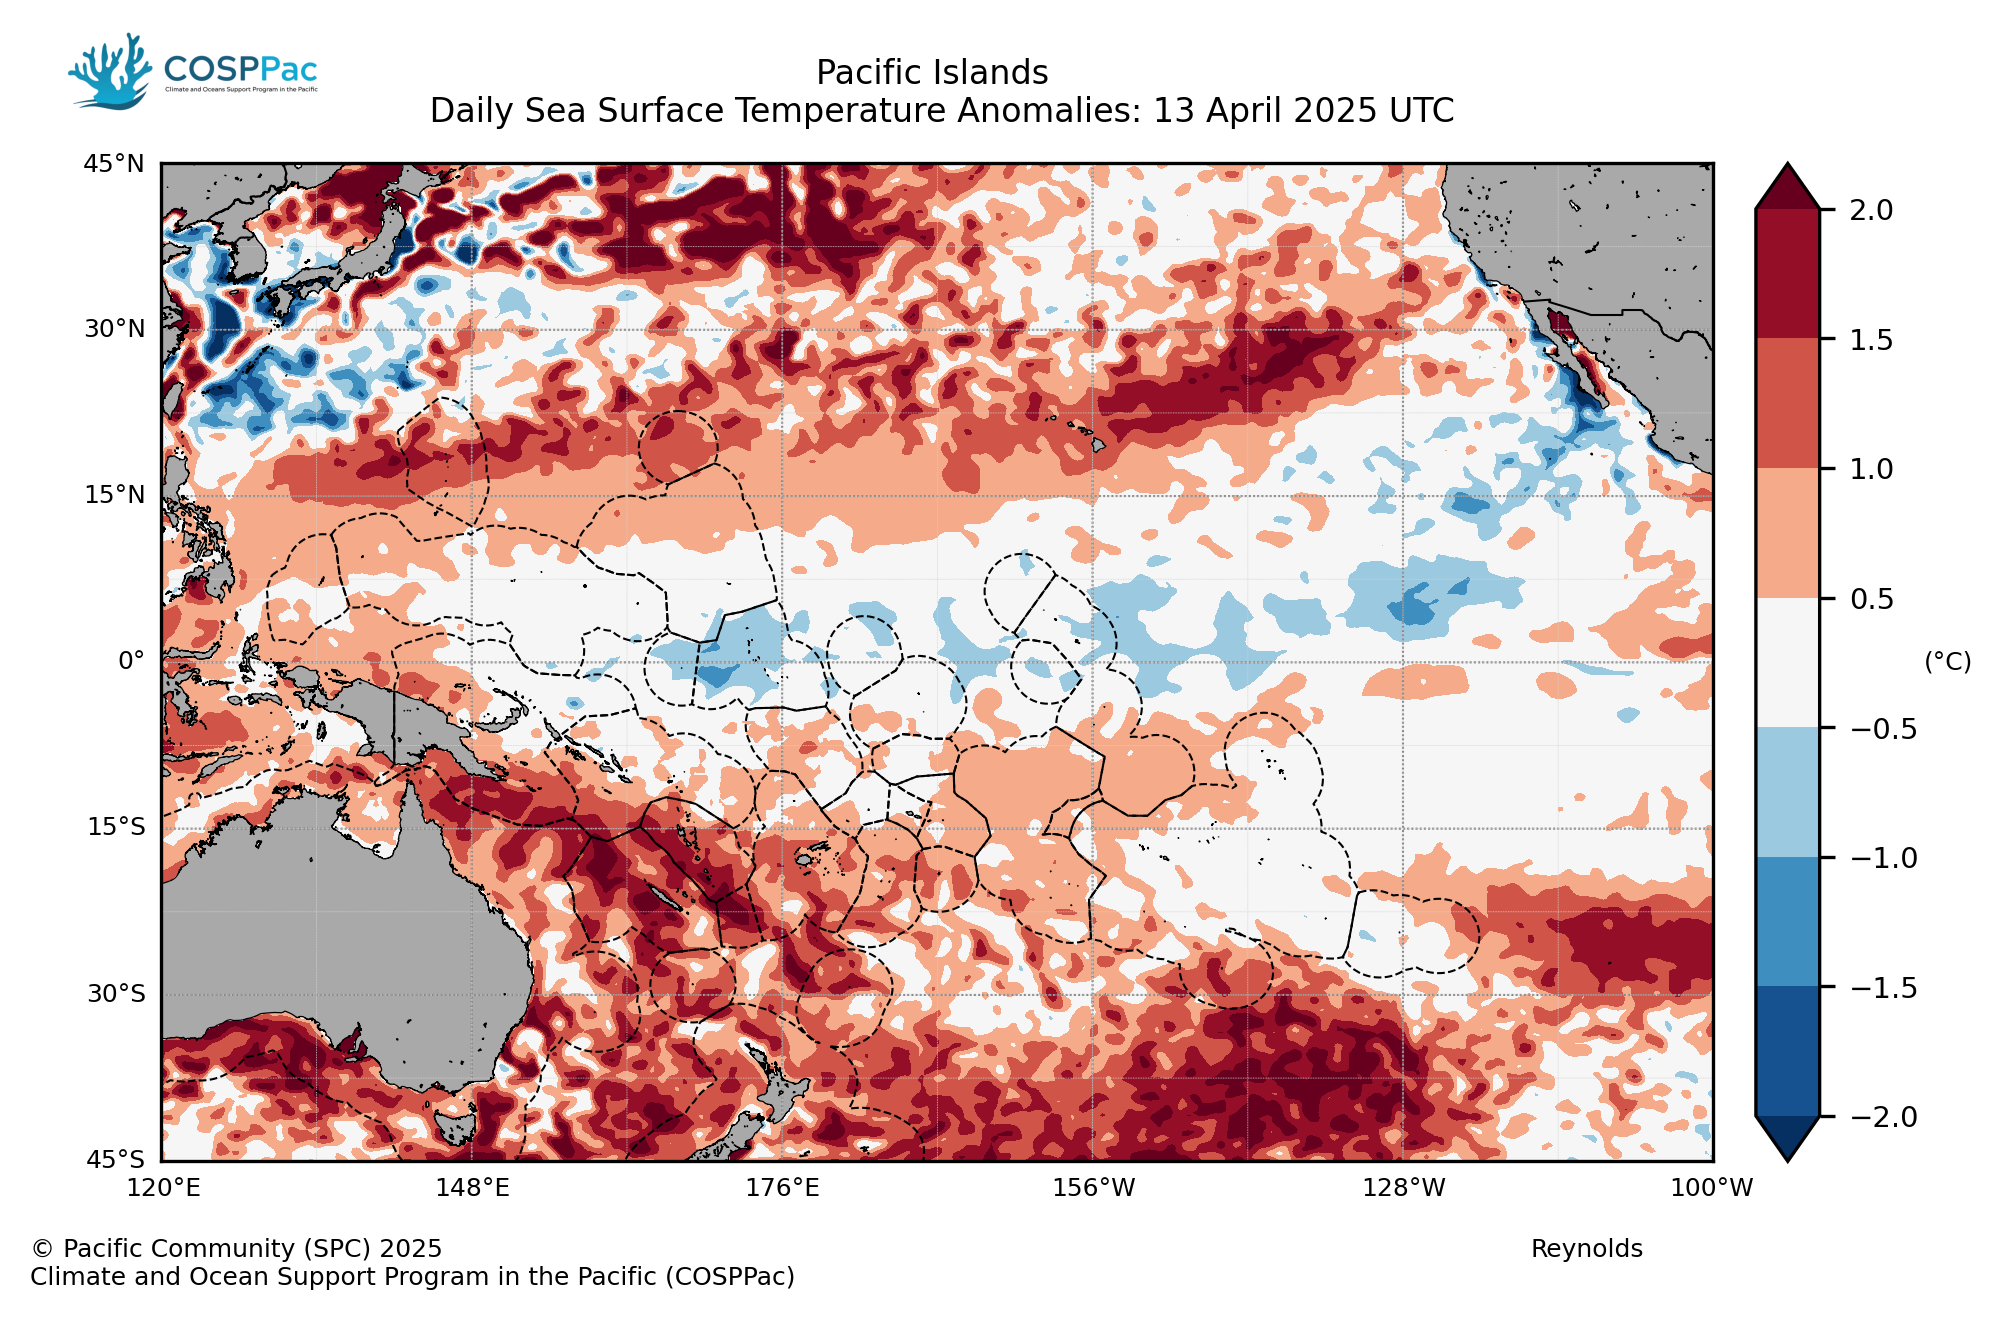
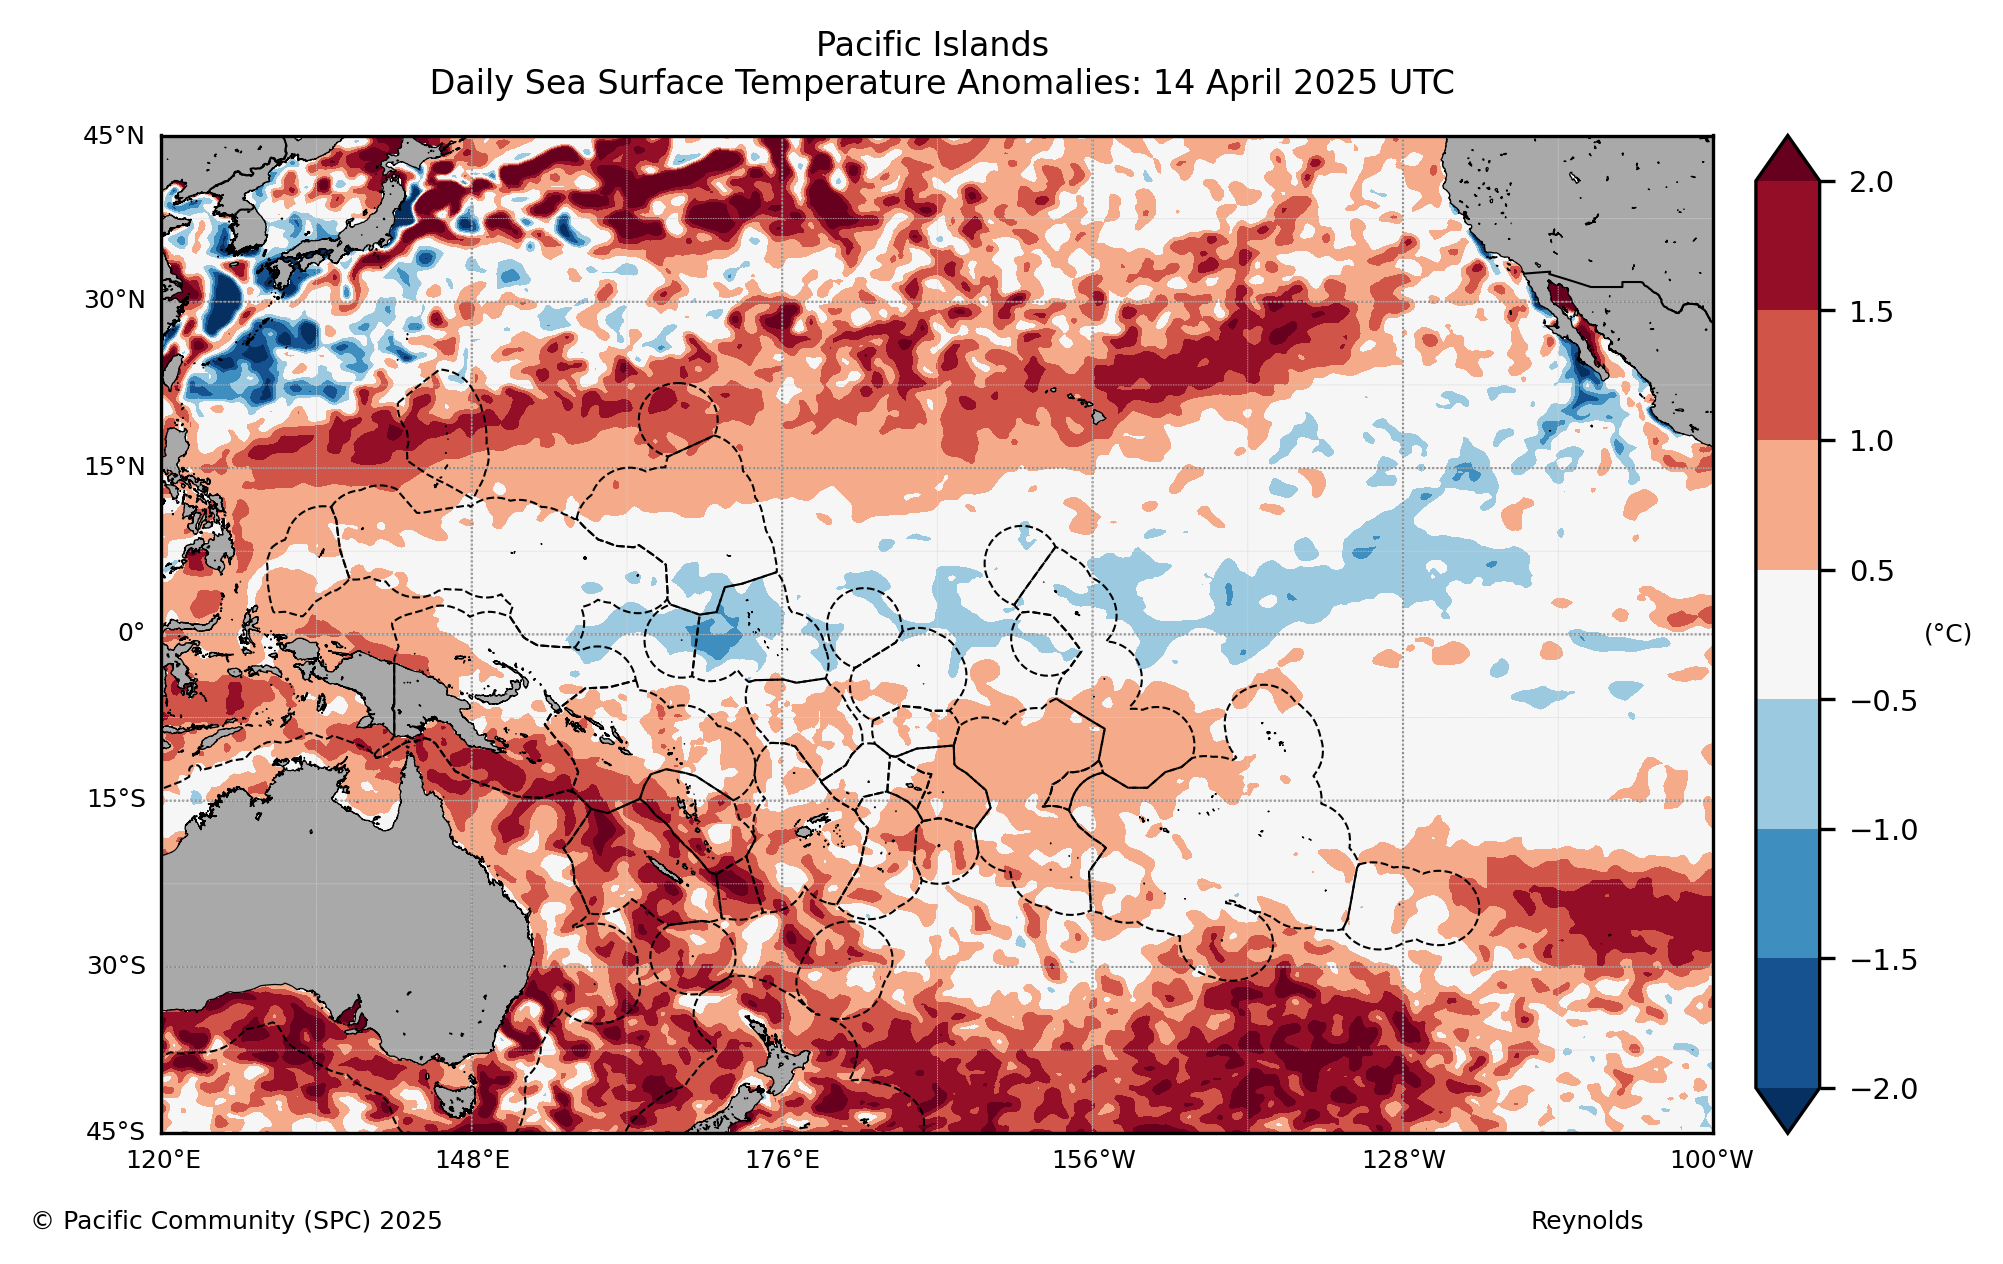
removed footer

diff --git a/cgi-bin/main.py b/cgi-bin/main.py
@@ -532,6 +532,7 @@ def add_logo_and_footer(fig, ax, ax2, ax2_pos, region,
                        copyright_text, footer_text, dataset_text,
                        logo_path="./Logo_cropped.png"):
     # Add logo
+    """
     try:
         logo_img = Image.open(logo_path)
         if region == 1:
@@ -543,18 +544,23 @@ def add_logo_and_footer(fig, ax, ax2, ax2_pos, region,
         logo_ax.axis('off')
     except FileNotFoundError:
         print(f"Logo file not found at {logo_path}")
+    """
 
     # Add footer elements
     if region == 1:
         ax2.text(-0.08, ax2_pos.y0-0.20, copyright_text,
                 transform=ax.transAxes, fontsize=6, verticalalignment='top')
+        """
         ax2.text(-0.08, ax2_pos.y0-0.225, footer_text,
                 transform=ax.transAxes, fontsize=6, verticalalignment='top')
+        """
     else:
         ax2.text(0.05, ax2_pos.y0-0.20, copyright_text,
                 transform=ax.transAxes, fontsize=6, verticalalignment='top')
+        """
         ax2.text(0.05, ax2_pos.y0-0.225, footer_text,
                 transform=ax.transAxes, fontsize=6, verticalalignment='top')
+        """
     
     # Common dataset text placement
     ax2.text(0.90, ax2_pos.y0-0.20, dataset_text,

diff --git a/cgi-bin/plot_opendap.py b/cgi-bin/plot_opendap.py
@@ -444,6 +444,7 @@ def add_logo_and_footer(fig, ax, ax2, ax2_pos, region,
                        copyright_text, footer_text, dataset_text,
                        logo_path="./Logo_cropped.png"):
     # Add logo
+    """
     try:
         logo_img = Image.open(logo_path)
         if region == 1:
@@ -455,18 +456,23 @@ def add_logo_and_footer(fig, ax, ax2, ax2_pos, region,
         logo_ax.axis('off')
     except FileNotFoundError:
         print(f"Logo file not found at {logo_path}")
+    """
 
     # Add footer elements
     if region == 1:
         ax2.text(-0.08, ax2_pos.y0-0.20, copyright_text,
                 transform=ax.transAxes, fontsize=6, verticalalignment='top')
+        """
         ax2.text(-0.08, ax2_pos.y0-0.225, footer_text,
                 transform=ax.transAxes, fontsize=6, verticalalignment='top')
+        """
     else:
         ax2.text(0.05, ax2_pos.y0-0.20, copyright_text,
                 transform=ax.transAxes, fontsize=6, verticalalignment='top')
+        """
         ax2.text(0.05, ax2_pos.y0-0.225, footer_text,
                 transform=ax.transAxes, fontsize=6, verticalalignment='top')
+        """
     
     # Common dataset text placement
     ax2.text(0.90, ax2_pos.y0-0.20, dataset_text,
